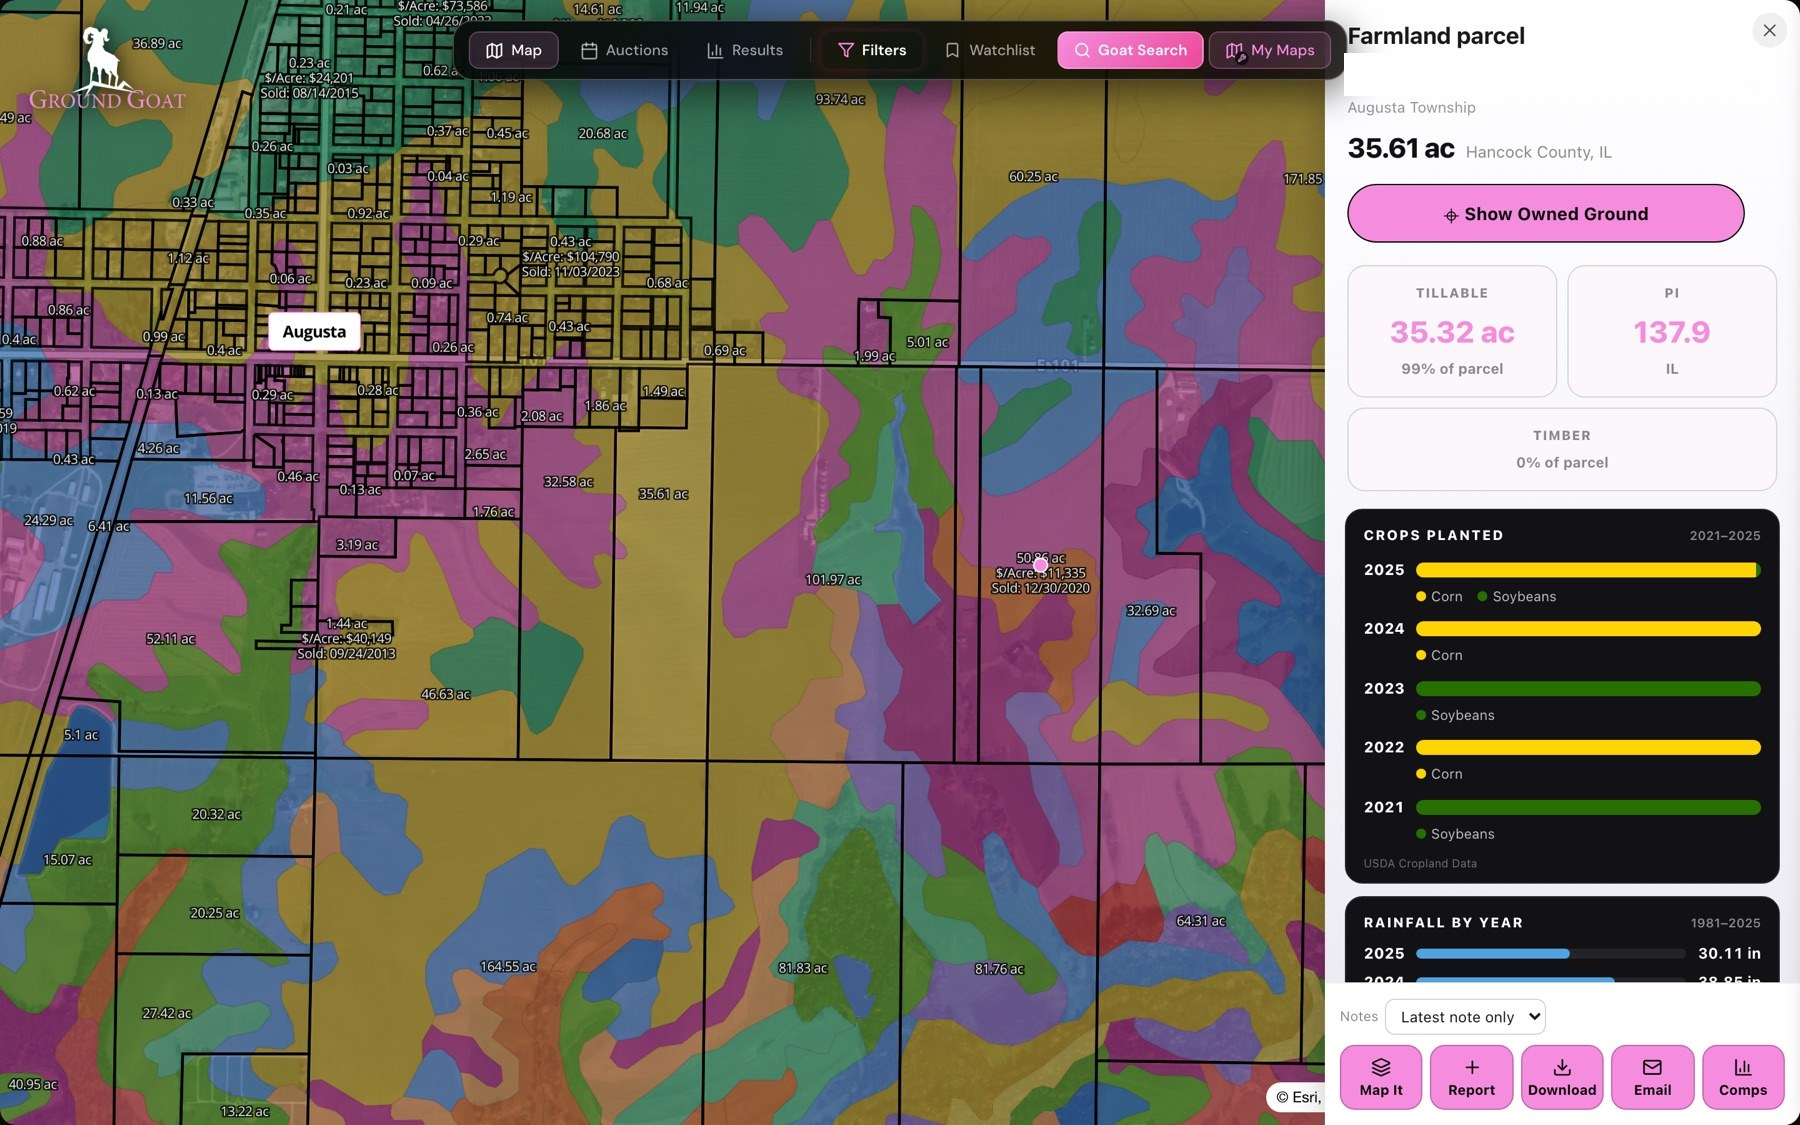
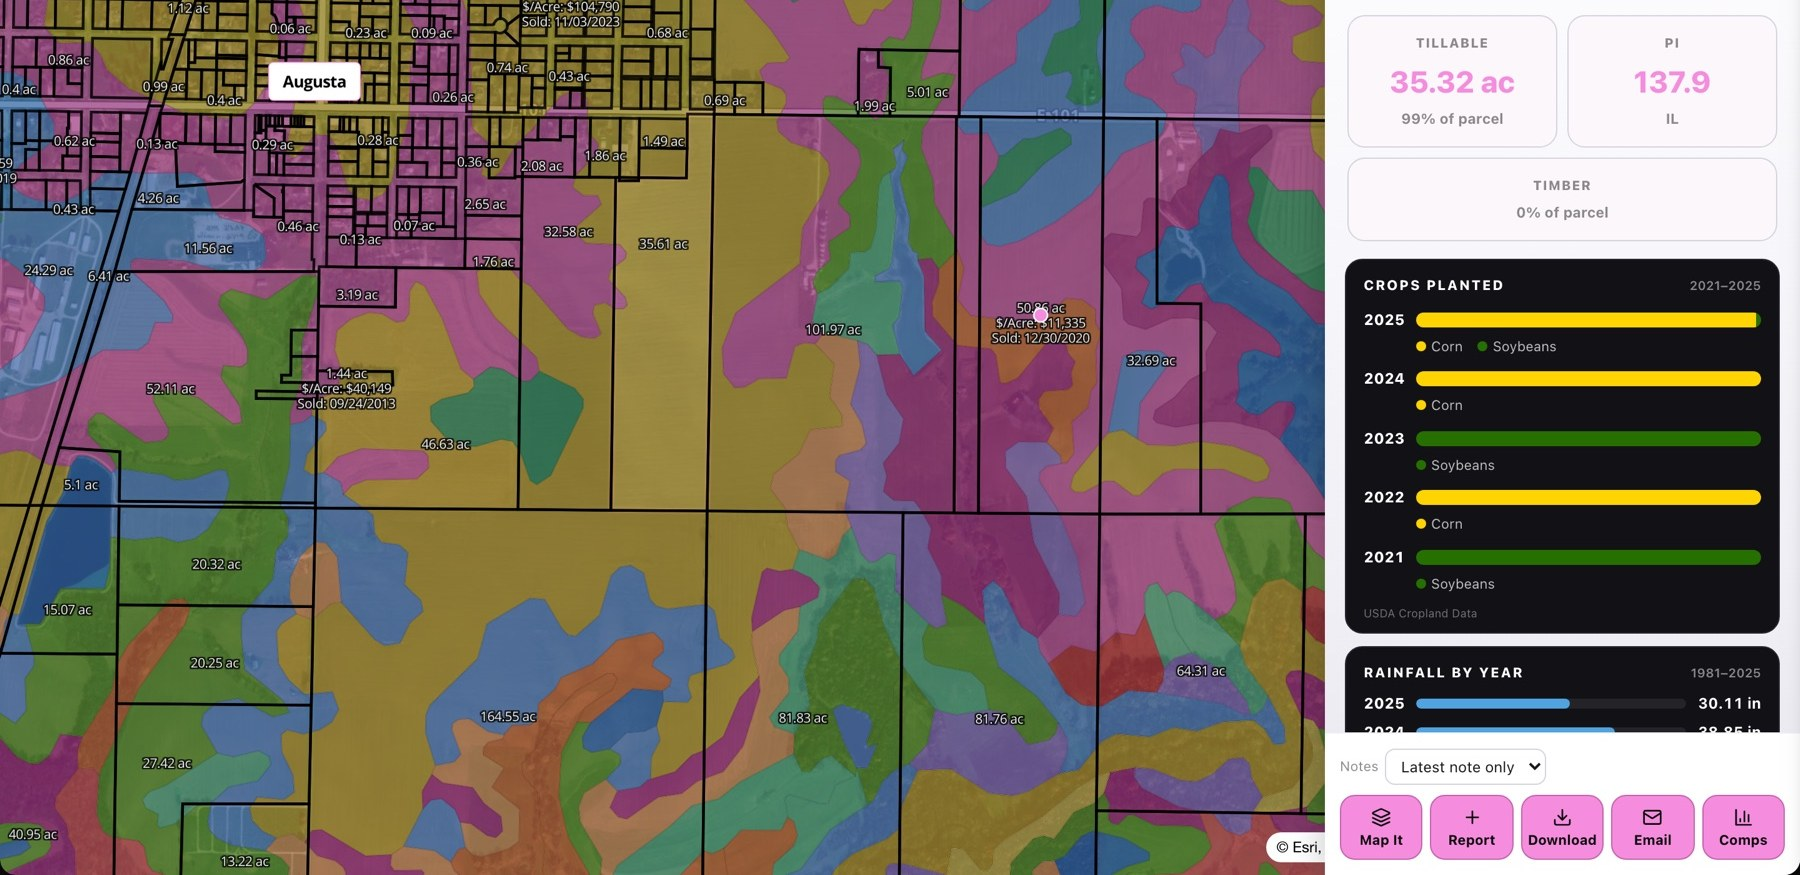
Landing: clean crops of the notes + soils screenshots (no patched header); 'per soil rating' wording

diff --git a/src/config/planLanding.ts b/src/config/planLanding.ts
@@ -79,7 +79,7 @@ export const PLAN_LANDING: Record<PlanKey, PlanLandingContent> = {
     subhead: 'Everything in Basic State, plus soil ratings, tillable acres, comparable sales reports and Goat Search, so you can price any farm in seconds.',
     highlights: [
       { icon: 'layers', card: { title: 'Soils + tillable acres', body: 'Owner, soil rating and crops on any parcel.' }, title: 'Soil and tillable acres for any parcel', body: 'Tap any parcel to see its owner, tillable acres, soil rating and crops planted, with soil maps and map layers on top.', image: '/landing/premium-soils.jpg', alt: 'Soil map with parcel details: tillable acres, soil rating and crops planted' },
-      { icon: 'chart', card: { title: 'Comparable sales', body: 'Averages build as you pick sales.' }, title: 'Comparable sales in seconds', body: 'Pick nearby sales on the map. Totals and averages for price per acre, per tillable acre and per soil point build as you go.', image: '/landing/premium-comps.jpg', alt: 'Comparable sales report with averages' },
+      { icon: 'chart', card: { title: 'Comparable sales', body: 'Averages build as you pick sales.' }, title: 'Comparable sales in seconds', body: 'Pick nearby sales on the map. Totals and averages for price per acre, per tillable acre and per soil rating build as you go.', image: '/landing/premium-comps.jpg', alt: 'Comparable sales report with averages' },
       { icon: 'report', card: { title: 'Land Report', body: 'A PDF you can hand to anyone.' }, title: 'A Land Report you can hand to anyone', body: 'Download or email a professional PDF with maps, soils, sale details and your notes.', image: '/landing/premium-land-report.jpg', frame: 'doc', alt: 'Ground Goat Land Report PDF' },
       { icon: 'search', card: { title: 'Goat Search', body: 'Ask in plain English, get the answer.' }, title: 'Goat Search', body: 'Ask in plain English, like "How many acres are going to auction in Nebraska this month?", and get the answer.', image: '/landing/premium-goat-search.jpg', alt: 'Goat Search answering a question about upcoming auctions' },
     ],

diff --git a/src/app/image-gallery/page.tsx b/src/app/image-gallery/page.tsx
@@ -16,7 +16,7 @@ const SHOTS = [
   { file: '4-soil-ratings-map', caption: "Soil types across the landscape, with every parcel's owner labeled." },
   { file: '5-goat-search-iowa-csr2', caption: 'Goat Search: "Show all farmland in Iowa with CSR2 greater than 80," answered on the map.' },
   { file: '10-show-owned-ground', caption: 'Show Owned Ground: everything one owner holds, lit up on the map in a tap.' },
-  { file: '9-comparable-sales-report', caption: 'Comparable sales report: price per acre, per tillable acre and per soil point. Email it as a PDF with multiple image views and soil data for each parcel.' },
+  { file: '9-comparable-sales-report', caption: 'Comparable sales report: price per acre, per tillable acre and per soil rating. Email it as a PDF with multiple image views and soil data for each parcel.' },
   { file: '6-3d-soil-view', caption: 'Drag the 3D view to see the land from any direction, and exaggerate the elevation to spot wet areas that may need tiling or replanting.' },
   { file: '7-home-live-auctions', caption: "Home: today's live auctions and the latest sale results." },
   { file: '8-ground-truth-county-data', caption: 'Ground Truth: county averages for yields, cash rents and land values.' },
